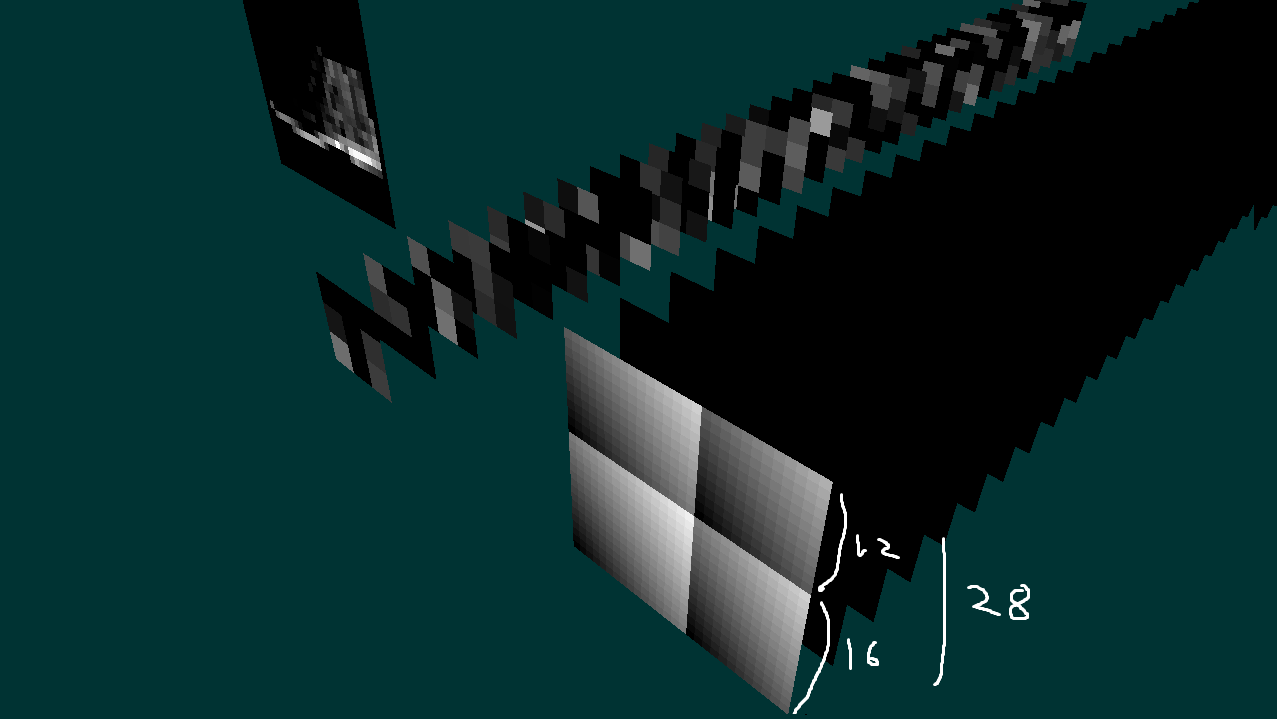
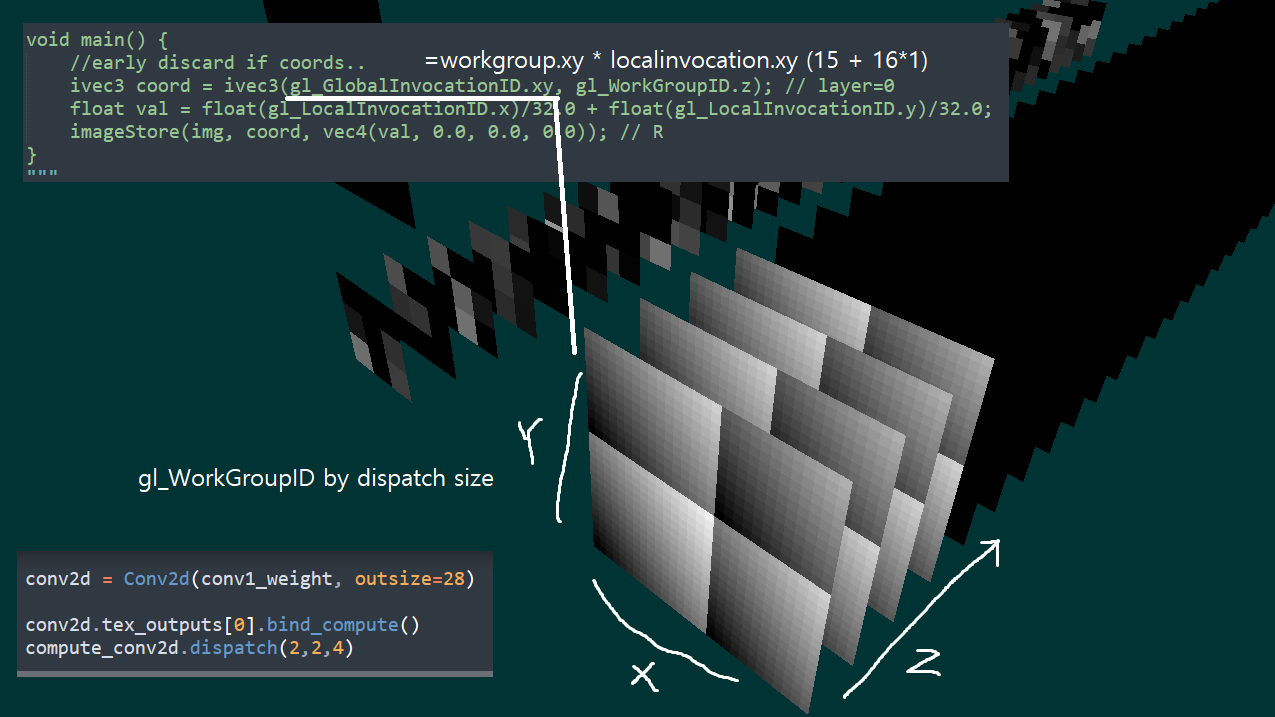
dispatch3d
works great!
no need to calculate tile coords, i think.

diff --git a/cpb.py b/cpb.py
@@ -645,10 +645,10 @@ class Conv2d:
 
 
 # gl_WorkGroupID dispatch group coords
+# gl_NumWorkGroups dispatch dispatch sizes
 # gl_LocalInvocationID local sized
 # gl_GlobalInvocationID global sized
 # gl_WorkGroupSize local sizes
-# gl_NumWorkGroups dispatch dispatch sizes
 # gl_LocalInvocationIndex flatten! easy to access ssbo.
 compute_src_conv2d ="""
 #version 310 es
@@ -663,8 +663,8 @@ layout(local_size_x = 16, local_size_y = 16) in;
 layout(r32f, binding = 0) uniform writeonly image2DArray img;
 
 void main() {
-
-    ivec3 coord = ivec3(gl_GlobalInvocationID.xy, 0); // layer=0
+    //early discard if coords..
+    ivec3 coord = ivec3(gl_GlobalInvocationID.xy, gl_WorkGroupID.z); // layer=0
     float val = float(gl_LocalInvocationID.x)/32.0 + float(gl_LocalInvocationID.y)/32.0;
     imageStore(img, coord, vec4(val, 0.0, 0.0, 0.0)); // R
 }
@@ -696,7 +696,7 @@ conv1_weight = data['conv1_weight']
 conv2d = Conv2d(conv1_weight, outsize=28)
 
 conv2d.tex_outputs[0].bind_compute()
-compute_conv2d.dispatch(2,2,1)
+compute_conv2d.dispatch(2,2,4)
 
 test_data = np.load("fmnist_test_normalized.npz")
 imgs = test_data["images"]        # (N,1,28,28)
